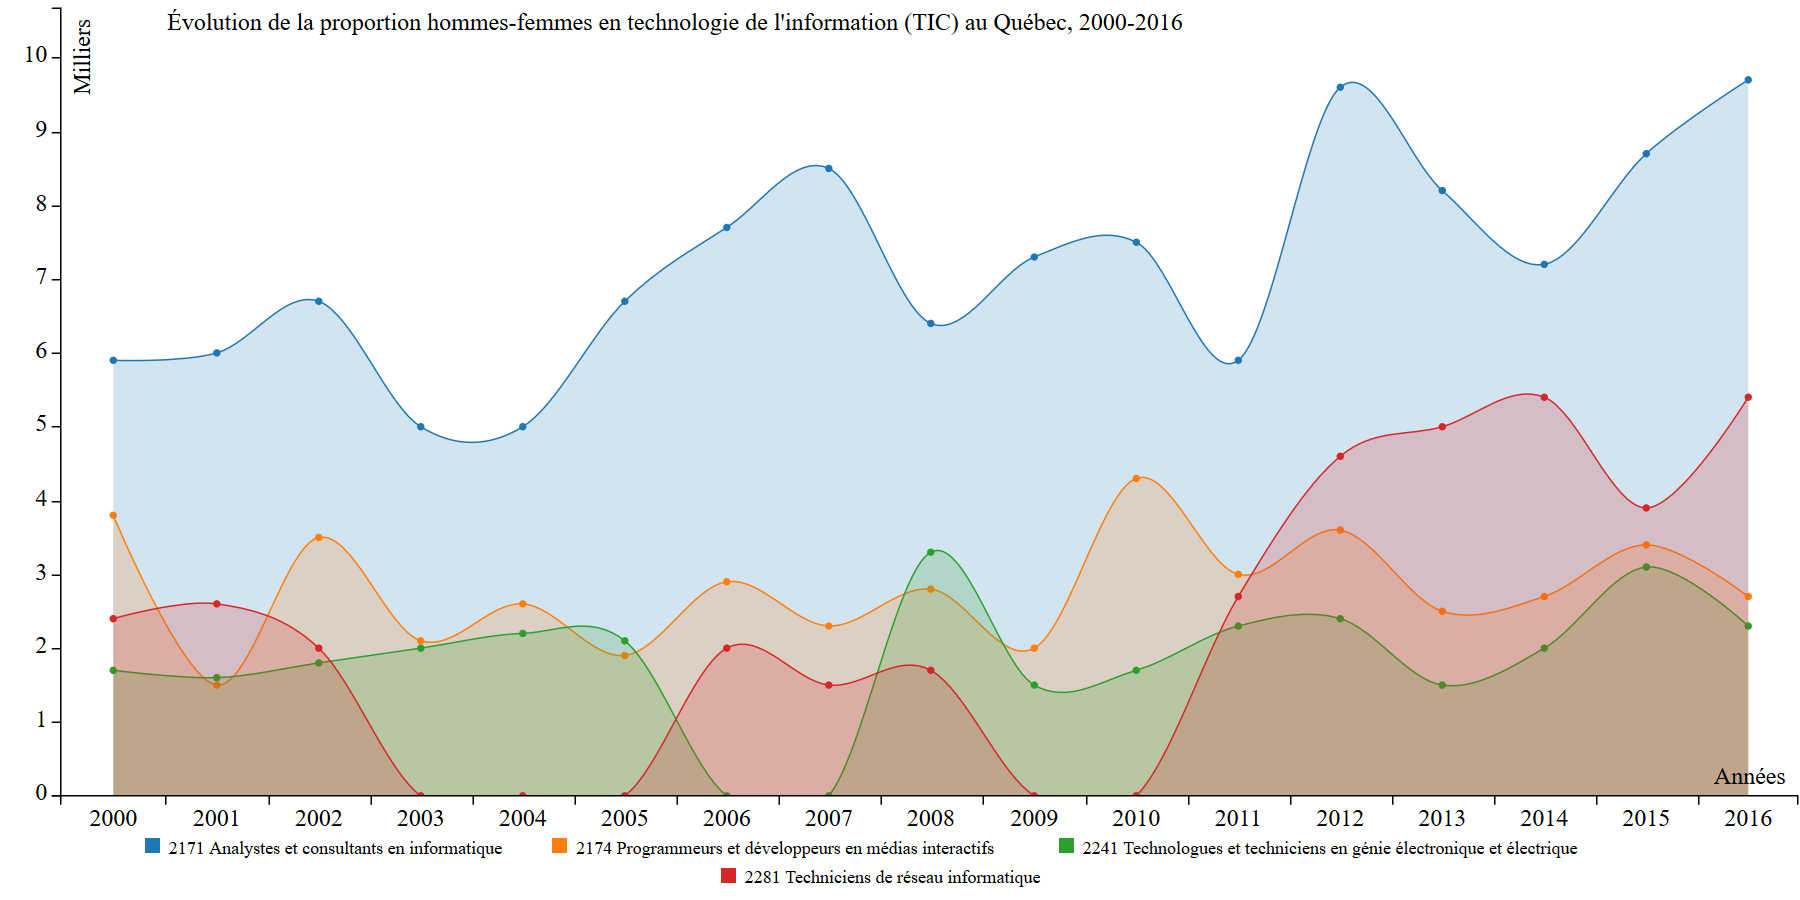
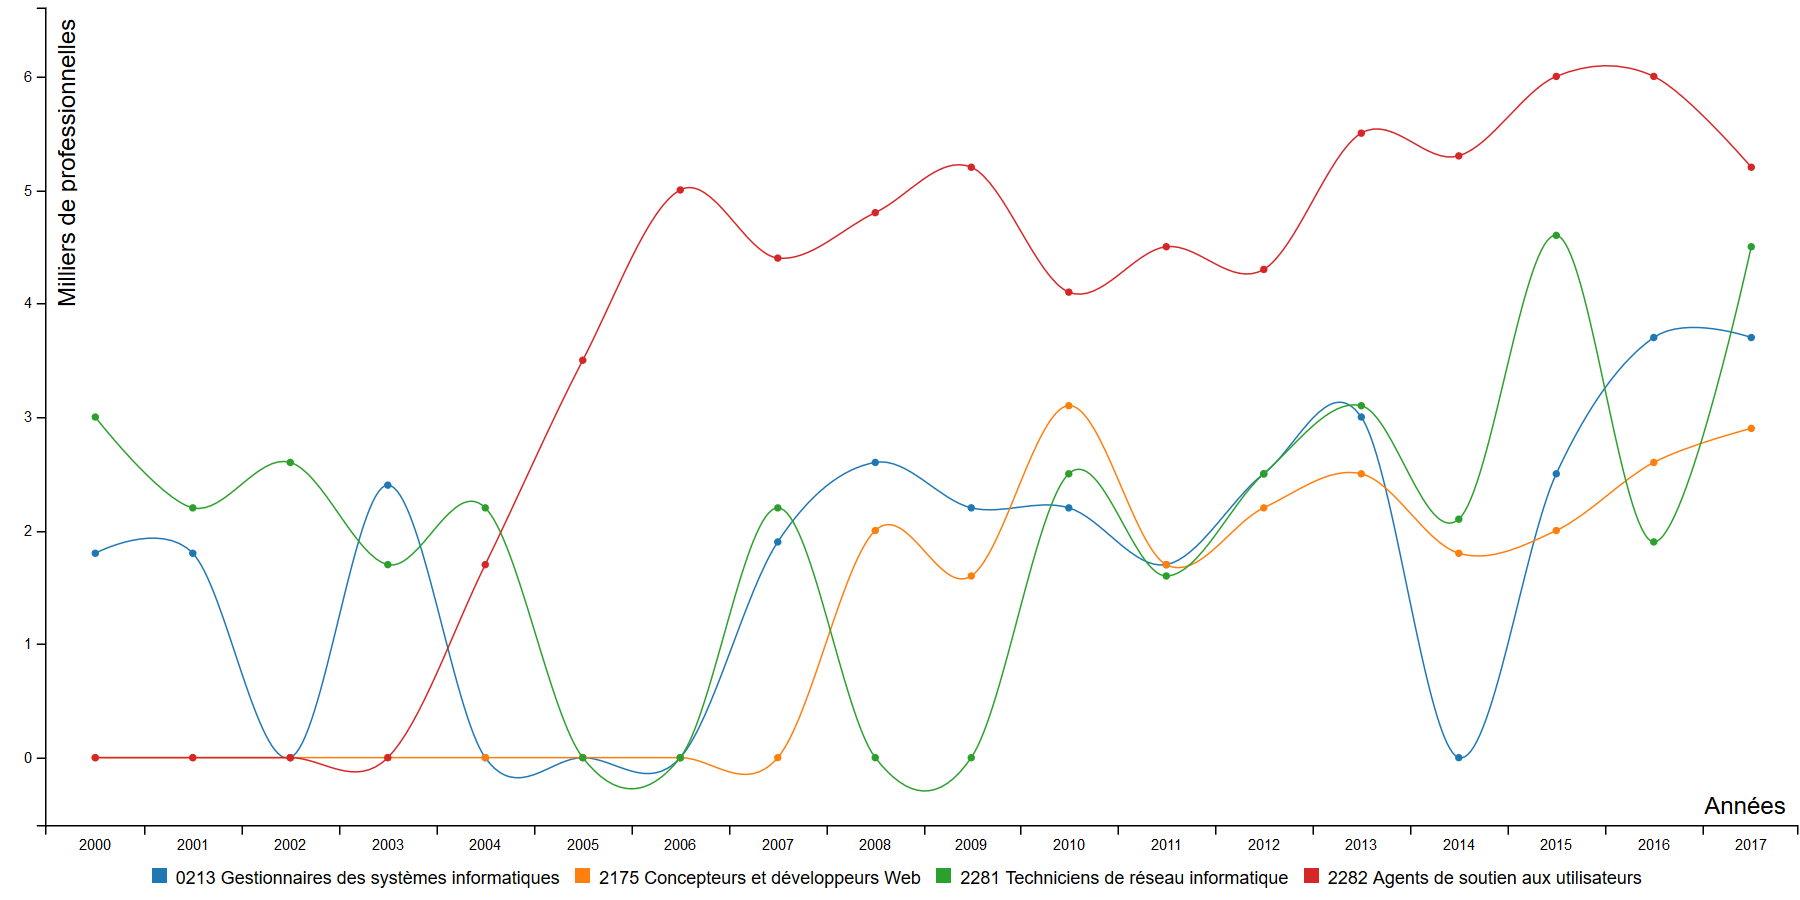
Add viz for femmes

diff --git a/femmes/index_2.html b/femmes/index_2.html
@@ -33,17 +33,17 @@ var chart = c3.generate({
         columns: [
 
 //  ["0131 Directeurs d'entreprises de télécommunications",1.5,1.6,0,0,1.8,1.5,0,0,0,0,0,0,0,1.6,0,0,0,0],
-  ['0213 Gestionnaires des systèmes informatiques',1.8,1.8,0,2.4,0,0,0,1.9,2.6,2.2,2.2,1.7,2.5,3,0,2.5,3.7,3.7],
+//  ['0213 Gestionnaires des systèmes informatiques',1.8,1.8,0,2.4,0,0,0,1.9,2.6,2.2,2.2,1.7,2.5,3,0,2.5,3.7,3.7],
 //  ['2133 Ingénieurs électriciens et électroniciens',0,0,0,1.6,0,1.6,0,0,1.5,0,0,0,0,0,0,0,0,0],
 // ['2147 Ingénieurs informaticiens (sauf ingénieurs et concepteurs en logiciel)',0,0,0,0,0,0,0,0,0,0,0,0,0,0,0,0,0,0],
 //  ['2171 Analystes et consultants en informatique',8.2,10.2,9.7,8.3,9,7.9,9.3,15.1,10.3,8.3,11.8,8.9,12.3,11.8,9.2,13.3,12.1,12.1],
 //  ['2172 Analystes de bases de données et administrateurs de données',0,0,0,0,0,0,0,0,1.9,0,2.6,0,0,3,2.5,2.4,1.8,0],
 //  ['2173 Ingénieurs et concepteurs en logiciel',0,0,0,0,0,0,0,0,0,0,0,0,0,0,0,0,0,0],
-//  ['2174 Programmeurs et développeurs en médias interactifs',7.5,4.8,5.2,4.8,6.4,3.7,3.1,3.7,5.6,2.1,4.9,5.5,3.5,3.9,4.2,5.9,5.2,7.5],
-  ['2175 Concepteurs et développeurs Web',0,0,0,0,0,0,0,0,2,1.6,3.1,1.7,2.2,2.5,1.8,2,2.6,2.9],
+  ['2174 Programmeurs et développeurs en médias interactifs',7.5,4.8,5.2,4.8,6.4,3.7,3.1,3.7,5.6,2.1,4.9,5.5,3.5,3.9,4.2,5.9,5.2,7.5],
+//  ['2175 Concepteurs et développeurs Web',0,0,0,0,0,0,0,0,2,1.6,3.1,1.7,2.2,2.5,1.8,2,2.6,2.9],
 //  ['2241 Technologues et techniciens en génie électronique et électrique',0,0,0,0,2.3,1.5,0,0,0,0,0,1.5,0,0,0,0,0,0],
-  ['2281 Techniciens de réseau informatique',3,2.2,2.6,1.7,2.2,0,0,2.2,0,0,2.5,1.6,2.5,3.1,2.1,4.6,1.9,4.5],
-  ['2282 Agents de soutien aux utilisateurs',0,0,0,0,1.7,3.5,5,4.4,4.8,5.2,4.1,4.5,4.3,5.5,5.3,6,6,5.2],
+//  ['2281 Techniciens de réseau informatique',3,2.2,2.6,1.7,2.2,0,0,2.2,0,0,2.5,1.6,2.5,3.1,2.1,4.6,1.9,4.5],
+//  ['2282 Agents de soutien aux utilisateurs',0,0,0,0,1.7,3.5,5,4.4,4.8,5.2,4.1,4.5,4.3,5.5,5.3,6,6,5.2],
 //  ['2283 Évaluateurs de systèmes informatiques',0,0,0,0,0,0,0,0,0,1.9,0,0,0,0,0,0,0,0],
 //  ['5121 Auteurs. rédacteurs et écrivains',0,2.8,3.1,1.7,3.1,1.6,2.5,2.3,1.5,4.2,0,0,3.4,2.1,3.5,4,2.5,2.5],
 //  ['5223 Techniciens en graphisme',0,0,0,0,0,0,0,0,1.9,0,0,0,0,0,0,0,0,2.2],
@@ -53,7 +53,7 @@ var chart = c3.generate({
 //  ['7246 Installateurs et réparateurs de matériel de télécommunications',0,0,0,0,0,0,0,0,0,0,0,0,0,0,0,0,0,0],
 //  ["7247 Techniciens en montage et en entretien d'installations de câblodistribution",0,0,0,0,0,0,0,0,0,0,0,0,0,0,0,0,0,0],
 //  ['9222 Surveillants dans la fabrication de matériel électronique',0,0,0,0,0,0,0,0,0,0,0,0,0,0,0,0,0,0],
-//  ['9523 Assembleurs, monteurs, contrôleurs et vérificateurs de matériel électronique',6.9,4.1,2.4,4.6,3.7,2.4,3.6,3.6,2.7,1.8,2.4,4.4,3.8,3.3,3.5,3.1,1.5,2.9]
+  ['9523 Assembleurs, monteurs, contrôleurs et vérificateurs de matériel électronique',6.9,4.1,2.4,4.6,3.7,2.4,3.6,3.6,2.7,1.8,2.4,4.4,3.8,3.3,3.5,3.1,1.5,2.9]
 
   
 
@@ -76,10 +76,10 @@ var chart = c3.generate({
             type:'category',
             label : 'Années',
             categories:['2000', '2001', '2002', '2003', '2004', '2005', '2006', '2007', '2008', '2009','2010', '2011', '2012',
-'2013', '2014', '2015', '2016'] 
+'2013', '2014', '2015', '2016', '2017'] 
 },
         y: {
-        		label : "Milliers"
+        		label : "Milliers de professionnelles"
             // Range includes padding, set 0 if no padding needed
             // padding: {top:0, bottom:0}
         }
